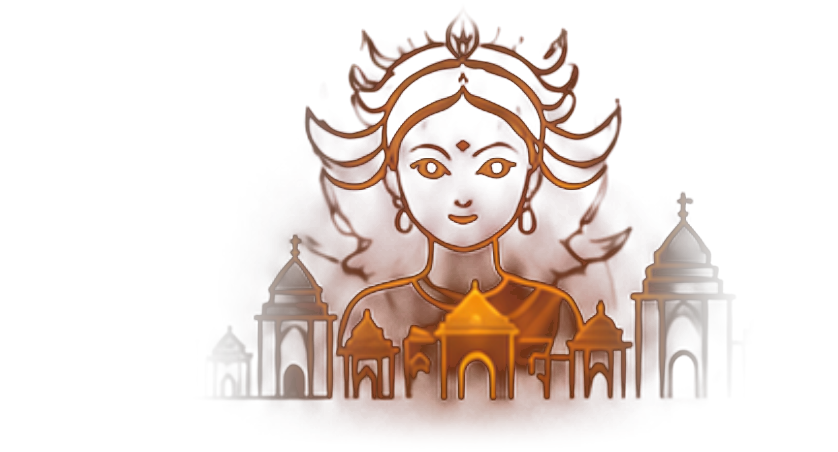
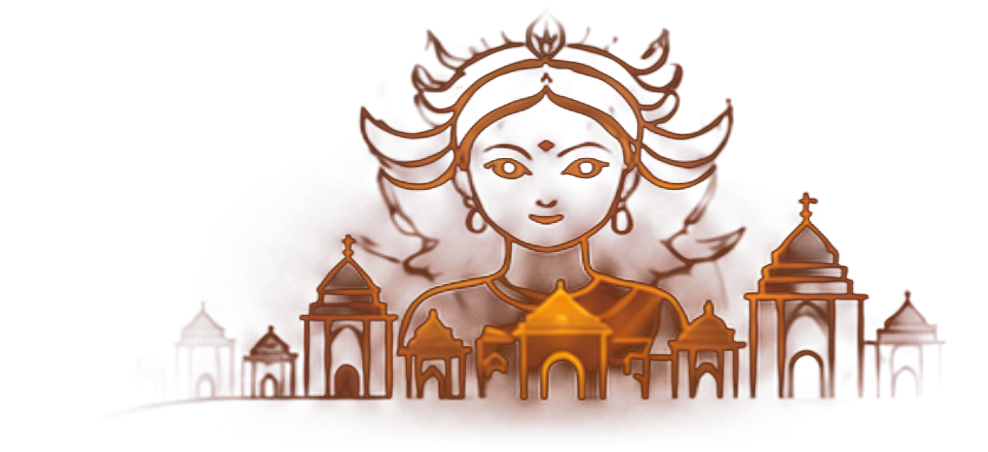
Elongate Durga photo sideways to eliminate empty side spaces with extended temple panorama

diff --git a/src/App.tsx b/src/App.tsx
@@ -3077,14 +3077,14 @@ export default function App() {
               </div>
 
               {/* Glowing Golden Maa Durga Artwork Image */}
-              <div className="absolute right-0 -top-2 -bottom-2 w-48 sm:w-56 flex items-center justify-end pointer-events-none select-none">
+              <div className="absolute right-0 -top-3 -bottom-3 w-64 sm:w-72 flex items-center justify-end pointer-events-none select-none">
                 <img
-                  src="/profile-durga-bg.png?v=clean6"
+                  src="/profile-durga-bg.png?v=clean7"
                   alt="Maa Durga"
                   className="h-full w-auto max-w-none object-contain object-right drop-shadow-[0_0_16px_rgba(233,184,62,0.4)] opacity-95 mix-blend-screen"
                   style={{
-                    maskImage: 'radial-gradient(ellipse at 55% 50%, black 40%, transparent 90%)',
-                    WebkitMaskImage: 'radial-gradient(ellipse at 55% 50%, black 40%, transparent 90%)',
+                    maskImage: 'linear-gradient(to right, transparent 0%, black 8%, black 92%, transparent 100%)',
+                    WebkitMaskImage: 'linear-gradient(to right, transparent 0%, black 8%, black 92%, transparent 100%)',
                   }}
                 />
               </div>

diff --git a/index.html b/index.html
@@ -1152,12 +1152,12 @@
         </div>
 
         <!-- Glowing Golden Maa Durga Artwork Image -->
-        <div class="absolute right-0 -top-2 -bottom-2 w-48 sm:w-56 flex items-center justify-end pointer-events-none select-none">
+        <div class="absolute right-0 -top-3 -bottom-3 w-64 sm:w-72 flex items-center justify-end pointer-events-none select-none">
           <img
-            src="profile-durga-bg.png?v=clean6"
+            src="profile-durga-bg.png?v=clean7"
             alt="Maa Durga"
             class="h-full w-auto max-w-none object-contain object-right drop-shadow-[0_0_16px_rgba(233,184,62,0.4)] opacity-95 mix-blend-screen"
-            style="-webkit-mask-image: radial-gradient(ellipse at 55% 50%, black 40%, transparent 90%); mask-image: radial-gradient(ellipse at 55% 50%, black 40%, transparent 90%);"
+            style="-webkit-mask-image: linear-gradient(to right, transparent 0%, black 8%, black 92%, transparent 100%); mask-image: linear-gradient(to right, transparent 0%, black 8%, black 92%, transparent 100%);"
           >
         </div>
       </div>
